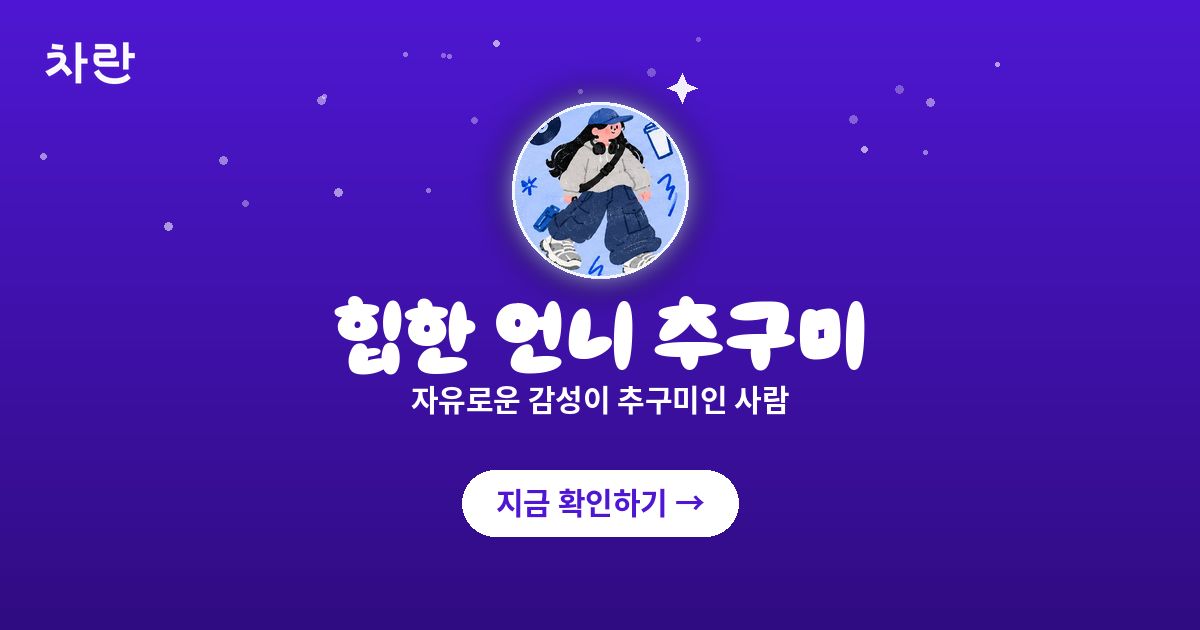
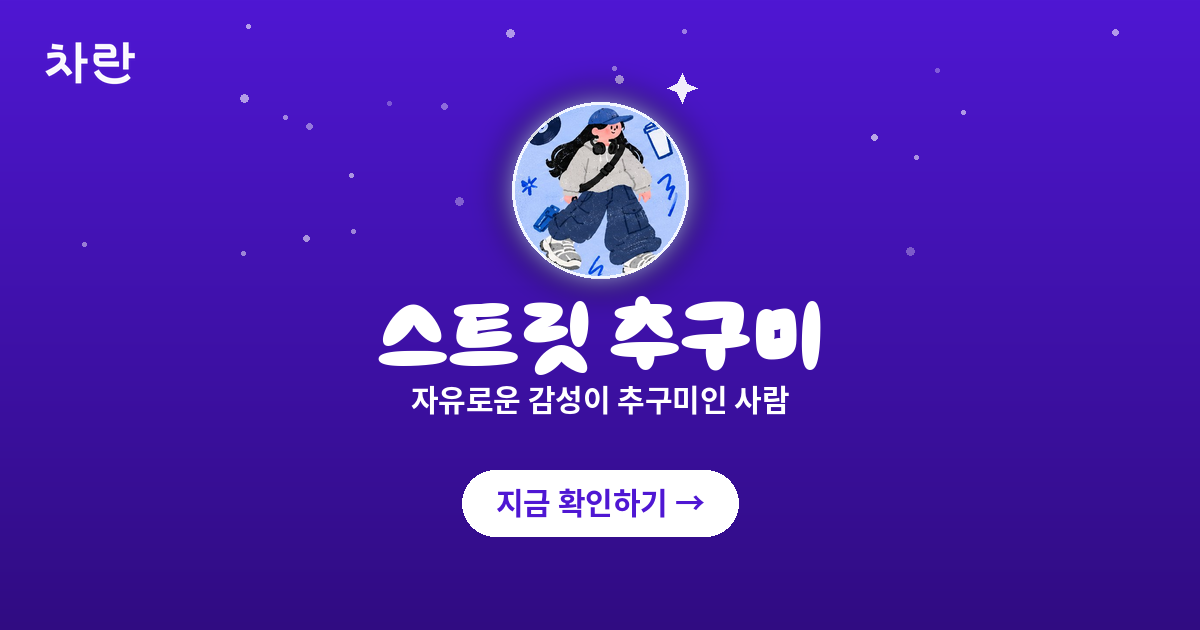
Add files via upload

Changed region(s): [[0.2775, 0.4524, 0.74, 0.6032], [0.7092, 0.2111, 0.74, 0.2413], [0.2467, 0.1508, 0.2775, 0.181]]

diff --git a/index.html b/index.html
@@ -1009,7 +1009,7 @@
     },
     화: {
       양: { // 병(丙)
-        title:"어른여자 추구미", tagline:"존재감으로 말하는 사람",
+        title:"텐션부자 추구미", tagline:"존재감으로 말하는 사람",
         desc:"<b>존재감은 숨기는 게 아니라 켜는 것</b>이에요. 뭘 입어도 시선이 한 번은 머무는 타입이에요. <b>포인트 컬러 하나</b>로 그날의 텐션을 정하고, 과감한 실루엣도 은근히 잘 소화해요. 레드, 오렌지처럼 강렬한 컬러의 아우터나 백을 매치했을 때 오히려 자연스럽고, 살짝 과한 듯한 액세서리도 스스로 소화해내는 자신감이 있어요. 평범한 옷차림보다는 <b>한 끗 다른 디테일</b>이 들어간 옷을 입어야 진짜 컨디션이 올라오는 편이에요. 뜨겁게 타오르는 화(火)의 기운을 타고나서, 존재감을 숨기기보다 드러낼 때 훨씬 더 나다워지고 주변에도 좋은 에너지를 전달해요.",
         keywords:["#포인트컬러","#볼드실루엣","#에너지충전","#무드메이커"],
         strengthTip:"포인트 컬러 하나로 분위기를 압도하는 힘이 있어요. 다만 포인트를 여러 개 겹치면 산만해 보일 수 있으니, <b>강한 아이템은 한 가지</b>로 좁히는 게 좋아요.",
@@ -1018,7 +1018,7 @@
         items:["레드 포인트 아우터","볼드 이어링","레더 스커트","포인트 힐","미니백"]
       },
       음: { // 정(丁)
-        title:"다정한 언니 추구미", tagline:"은은한 설렘을 주는 사람",
+        title:"말랑로맨틱 추구미", tagline:"은은한 설렘을 주는 사람",
         desc:"<b>조용해도 오래 남는다</b> — 은은한 온도 하나로 마음을 데우는 사람이에요. 화려하진 않아도 <b>따뜻한 색감</b>과 부드러운 디테일에 자꾸 마음이 가는 타입이에요. 잔잔하지만 분명한 존재감이 있어요. 코랄, 살구, 웜핑크처럼 <b>온기가 느껴지는 컬러</b>를 걸쳤을 때 표정이 한결 부드러워지고, 시폰이나 레이스처럼 가볍게 살랑이는 소재를 좋아해요. 화려한 패턴보다는 은은한 광택이나 자수 같은 섬세한 디테일에서 매력이 드러나는 타입이에요. 따뜻하게 번지는 화(火)의 기운이라, 강한 인상보다는 오래 볼수록 좋아지는 잔잔한 설렘을 주는 스타일이 진짜 나예요.",
         keywords:["#웜톤무드","#소프트글램","#설렘포인트","#잔잔한매력"],
         strengthTip:"은은한 존재감으로 오래 기억에 남는 게 강점이에요. 다만 너무 힘을 빼면 존재감 자체가 흐려질 수 있으니, <b>소재감 있는 디테일</b> 하나는 챙기는 게 좋아요.",
@@ -1058,7 +1058,7 @@
         items:["테일러드 재킷","슬랙스","실크 블라우스","로퍼","가죽 벨트"]
       },
       음: { // 신(辛)
-        title:"칼정리 추구미", tagline:"군더더기 없이 정리된 사람",
+        title:"칼정리 추구미", tagline:"고민 없이 완성하는 사람",
         desc:"<b>군더더기는 없어야 한다</b> — 최소한으로 최대치를 보여주는 사람이에요. <b>솔리드 컬러</b>와 절제된 디테일이 바쁜 하루에도 단정함을 지켜주는 타입이에요. 효율적으로 취향을 완성해요. 무채색 위주로 옷장을 채우고, 로고나 패턴 없는 <b>깔끔한 실루엣</b>을 좋아해요. 옷 하나를 사도 여러 벌과 잘 어울리는지부터 따지는 편이라, 결과적으로 실패 없는 옷장을 갖고 있어요. 액세서리도 최소한만 하는 게 오히려 더 세련돼 보인다는 걸 아는 타입이에요. 정제되고 예리한 금(金)의 기운이라, 덜어낼수록 취향이 더 또렷하게 드러나는 스타일이에요.",
         keywords:["#솔리드컬러","#무채색무드","#효율파","#심플라인"],
         strengthTip:"덜어낼수록 취향이 또렷해지는 게 강점이에요. 다만 너무 절제하면 밋밋해 보일 수 있으니, <b>소재나 핏에서 디테일</b> 하나는 챙기는 게 좋아요.",
@@ -1069,7 +1069,7 @@
     },
     수: {
       양: { // 임(壬)
-        title:"힙한 언니 추구미", tagline:"자유로운 감성이 추구미인 사람",
+        title:"스트릿 추구미", tagline:"자유로운 감성이 추구미인 사람",
         desc:"<b>규칙은 참고만 한다</b> — 힘 빼고 걸쳐도 분위기가 사는 사람이에요. 힘 빼고 걸친 듯해도 분위기 있는 <b>스트릿 무드</b>가 잘 어울리는 타입이에요. 과감한 그래픽, 오버사이즈도 자연스럽게 소화해요. 박시한 후디, 카고 팬츠, 청키한 스니커즈처럼 <b>루즈하고 자유로운 핏</b>을 좋아하고, 유행에 얽매이기보다는 나만의 방식으로 트렌드를 재해석하는 감각이 있어요. 레이어드도 과감하게 시도하는 편이라 늘 새로운 조합을 찾아내는 타입이에요. 자유롭게 흐르는 수(水)의 기운을 타고나서, 규칙에 갇히지 않을 때 오히려 본연의 스타일이 가장 잘 드러나요.",
         keywords:["#오버사이즈","#스트릿무드","#자유로운핏","#힘뺀멋"],
         strengthTip:"힘을 빼고 걸쳐도 분위기가 사는 게 강점이에요. 다만 오버사이즈만 고집하면 늘어져 보일 수 있으니, <b>핏이 살아있는 아이템</b> 하나로 균형을 잡아주는 게 좋아요.",
@@ -1078,7 +1078,7 @@
         items:["오버사이즈 후디","카고 팬츠","청키 스니커즈","버킷햇","크로스백"]
       },
       음: { // 계(癸)
-        title:"무드깡패 추구미", tagline:"은은하게 스며드는 사람",
+        title:"어른여자 추구미", tagline:"은은하게 스며드는 사람",
         desc:"<b>말보다 무드로 압도한다</b> — 조용해도 잊히지 않는 사람이에요. 부드럽게 떨어지는 소재와 <b>깊은 톤</b>에 자꾸 눈이 가는 타입이에요. 화려하지 않아도 여운이 남는 시크한 무드예요. 블랙, 차콜, 네이비처럼 <b>깊이감 있는 컬러</b>의 드레이프 원피스나 롱 코트를 입으면 분위기가 확 살고, 말을 많이 하지 않아도 존재감이 느껴지는 스타일이에요. 과한 장식보다는 소재가 떨어지는 라인 하나로 완성도를 높이는 타입이에요. 유연하고 깊이 있는 수(水)의 기운이라, 조용한 듯해도 오래 기억에 남는 무드가 진짜 나예요.",
         keywords:["#딥톤","#드레이프소재","#미니멀시크","#무드있음"],
         strengthTip:"조용해도 오래 남는 존재감이 강점이에요. 다만 어두운 톤만 고집하면 무거워 보일 수 있으니, <b>소재의 광택이나 드레이프</b>로 포인트를 줘보는 게 좋아요.",

diff --git a/netlify/edge-functions/persona-og.js b/netlify/edge-functions/persona-og.js
@@ -195,16 +195,16 @@ var ROM = { 목:"wood", 화:"fire", 토:"earth", 금:"metal", 수:"water" };
 
 // PERSONA 타이틀/태그라인 (charan-saju.html PERSONA 데이터와 동일 — 미리보기 텍스트용)
 var PERSONA_META = {
-  "wood-yang":  { title:"캐주얼 추구미", tagline:"편하게 걸쳐도 태 나는 사람" },
-  "wood-yin":   { title:"러블리 추구미", tagline:"청춘 로코 여주가 추구미인 사람" },
-  "fire-yang":  { title:"글램 추구미", tagline:"존재감으로 말하는 사람" },
-  "fire-yin":   { title:"로맨틱 추구미", tagline:"은은한 설렘을 주는 사람" },
-  "earth-yang": { title:"내추럴 추구미", tagline:"자연스러움이 힘인 사람" },
-  "earth-yin":  { title:"코지 추구미", tagline:"곁에 있으면 편안해지는 사람" },
-  "metal-yang": { title:"클래식 추구미", tagline:"일잘러 커리어우먼이 추구미인 사람" },
-  "metal-yin":  { title:"미니멀 추구미", tagline:"군더더기 없이 정리된 사람" },
+  "wood-yang":  { title:"동네언니 추구미", tagline:"편하게 걸쳐도 태 나는 사람" },
+  "wood-yin":   { title:"첫사랑 추구미", tagline:"청춘 로코 여주가 추구미인 사람" },
+  "fire-yang":  { title:"텐션부자 추구미", tagline:"존재감으로 말하는 사람" },
+  "fire-yin":   { title:"말랑로맨틱 추구미", tagline:"은은한 설렘을 주는 사람" },
+  "earth-yang": { title:"무해력 추구미", tagline:"자연스러움이 힘인 사람" },
+  "earth-yin":  { title:"집순이 추구미", tagline:"곁에 있으면 편안해지는 사람" },
+  "metal-yang": { title:"일잘러 추구미", tagline:"일잘러 커리어우먼이 추구미인 사람" },
+  "metal-yin":  { title:"칼정리 추구미", tagline:"고민 없이 완성하는 사람" },
   "water-yang": { title:"스트릿 추구미", tagline:"자유로운 감성이 추구미인 사람" },
-  "water-yin":  { title:"시크 추구미", tagline:"은은하게 스며드는 사람" }
+  "water-yin":  { title:"어른여자 추구미", tagline:"은은하게 스며드는 사람" }
 };
 
 function personaFromQuery(url){
